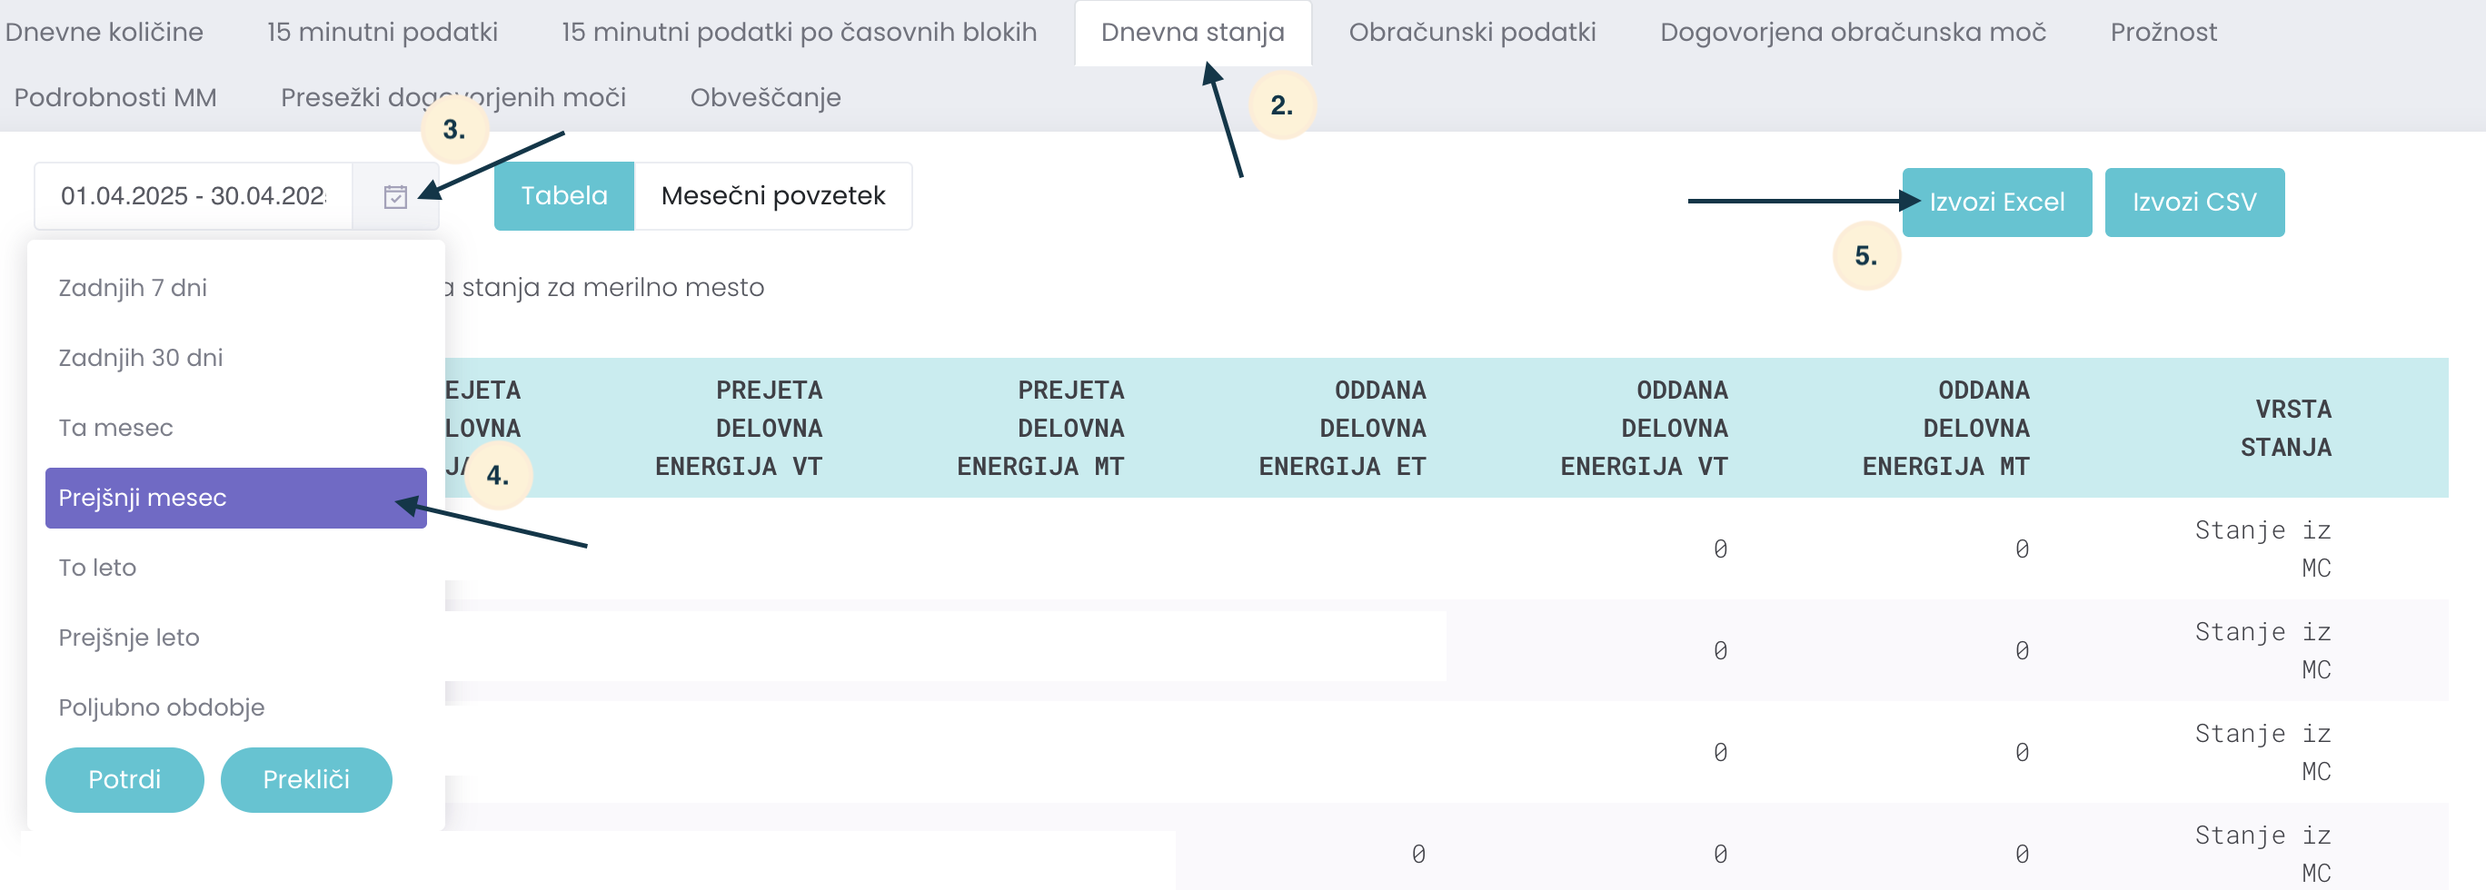
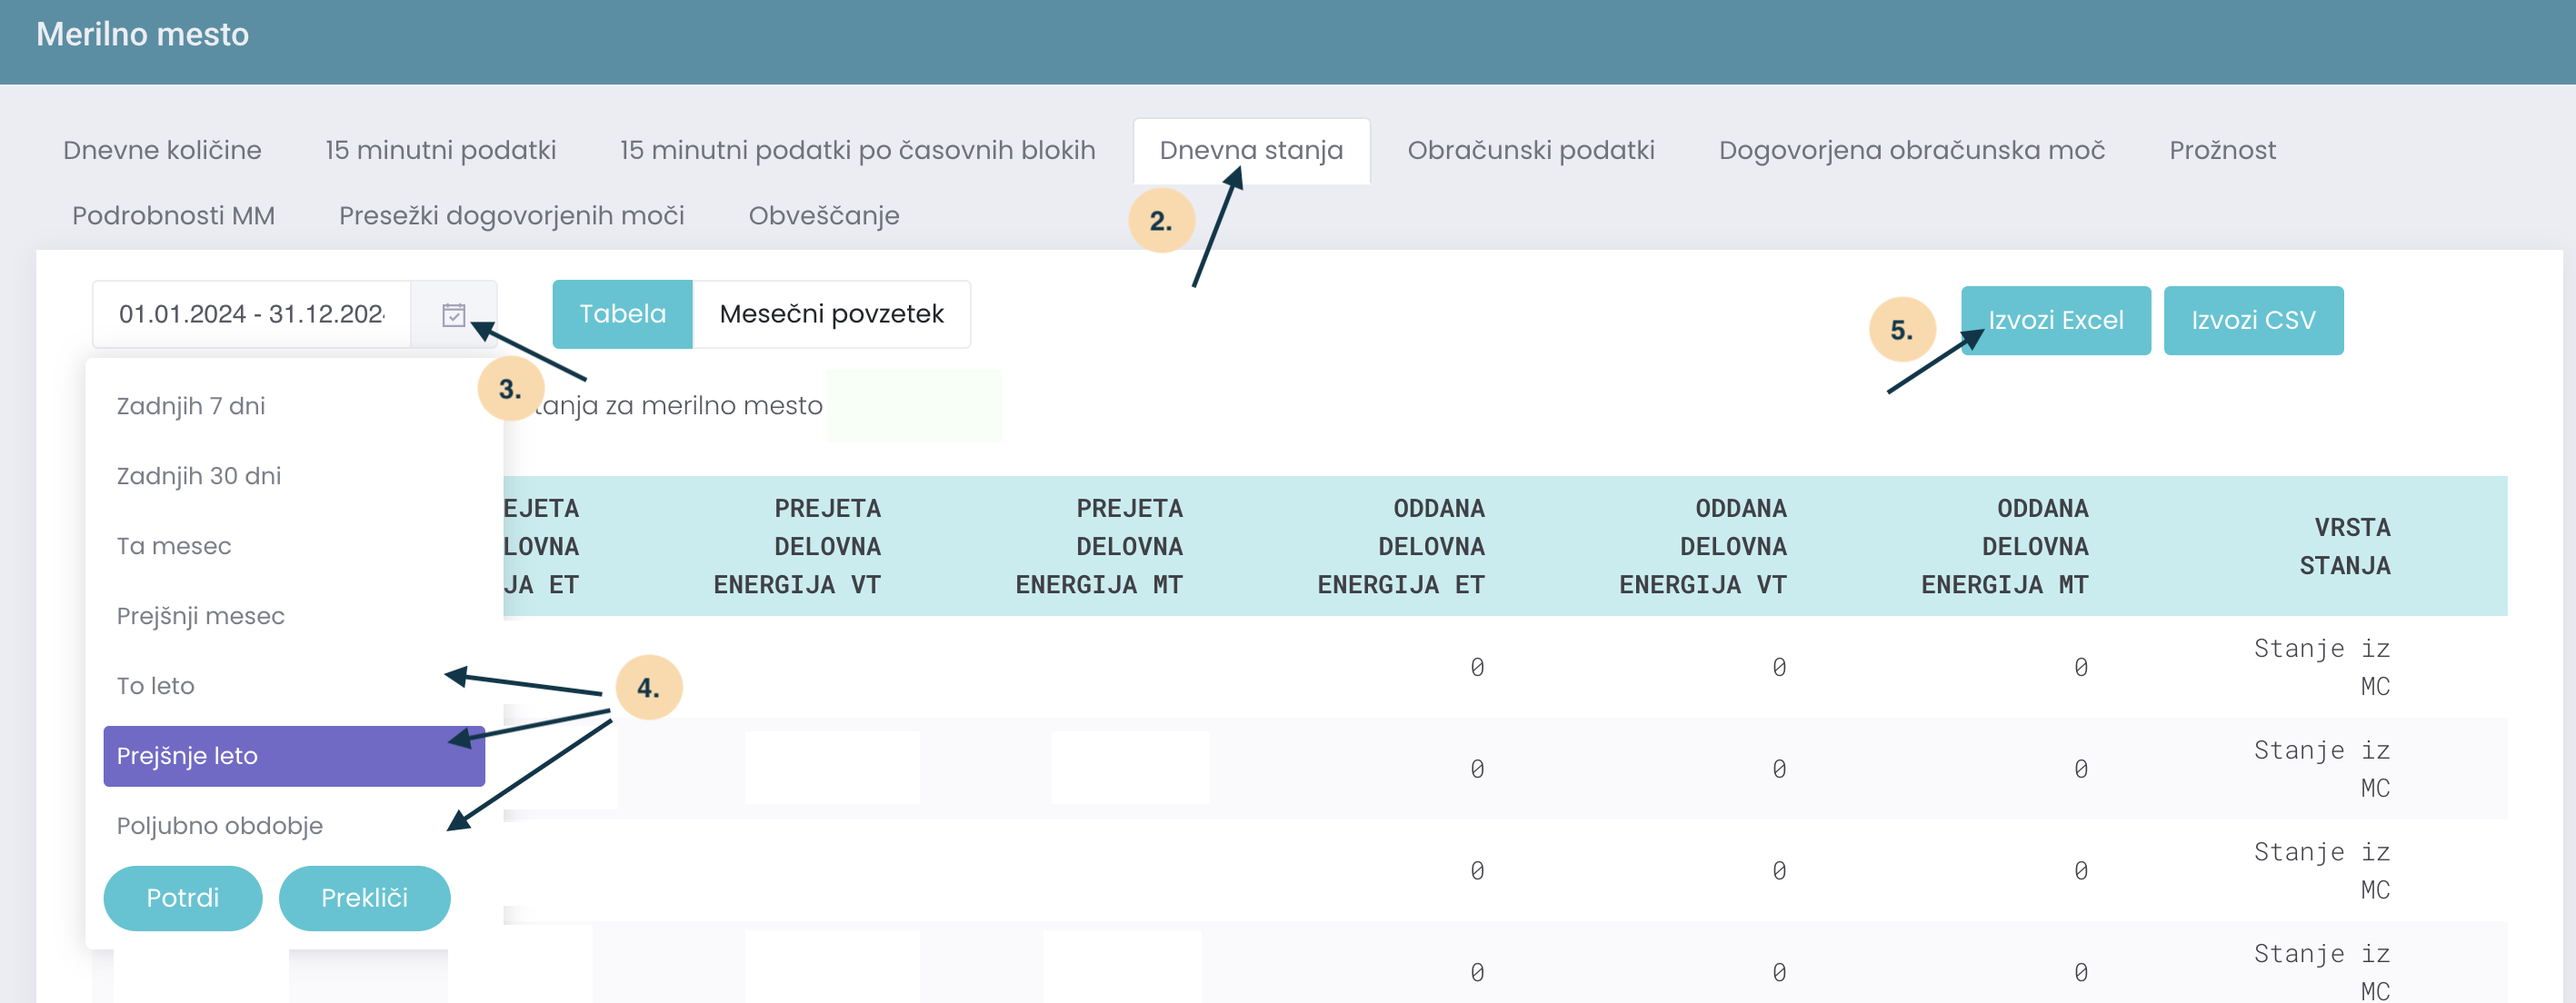
nalaganje 15-min podatkov za optimum, razlaga računa, prikaz komponent

diff --git a/frontend/src/components/forms/Upload15min.tsx b/frontend/src/components/forms/Upload15min.tsx
@@ -1,0 +1,152 @@
+import React, { useRef, useState } from 'react';
+import { Label, Button, FileInput, Accordion } from 'flowbite-react';
+import instructions1 from '../../assets/images/instructions/instructions1.png';
+import instructions4 from '../../assets/images/instructions/instructions4.png';
+
+import { getUserDocIds, uploadMonthlyFile } from 'src/index';
+import { auth } from 'src/firebase-config';
+
+export default function Upload15min () {
+  const [file, setFile] = useState<File | null>(null);
+  const keyId = auth.config.apiKey;
+  const userSessionid = 'firebase:authUser:' + keyId + ':[DEFAULT]';
+  const fileInputRef = useRef<HTMLInputElement>(null);
+
+  const handleFileChange = (e: React.ChangeEvent<HTMLInputElement>) => {
+    if (e.target.files && e.target.files.length > 0) {
+      setFile(e.target.files[0]);
+    }
+  };
+
+  const handleSubmit = async (e: React.FormEvent) => {
+    e.preventDefault();
+
+    if (!file) {
+      alert('Naloži datoteko.');
+      return;
+    }
+
+    const fromData = new FormData();
+    fromData.append('file', file);
+
+    try {
+      const uid = await getUid();
+      if (!uid) {
+        console.log('Uid notavalible');
+      }
+
+      const numOfDocsBefore = (await getUserDocIds(uid as string)).length;
+      fromData.append('uid', uid);
+
+      await uploadMonthlyFile(fromData);
+      const numOfDocsAfter = (await getUserDocIds(uid as string)).length;
+
+      if (numOfDocsAfter > numOfDocsBefore) {
+        alert('Račun uspešno naložen!');
+      } else {
+        alert('Ne gre');
+      }
+
+      setFile(null);
+      if (fileInputRef.current) {
+        fileInputRef.current.value = '';
+      }
+    } catch (error) {
+      console.log(error);
+    }
+  };
+
+  const getUid = async () => {
+    const sessionUser = sessionStorage.getItem(userSessionid);
+
+    if (sessionUser) {
+      try {
+        const user = JSON.parse(sessionUser);
+        if ('uid' in user) {
+          const id = user.uid;
+          return id;
+        }
+      } catch (error) {
+        //    console.log(error);
+      }
+    }
+  };
+
+  return (
+    <div className="bg-white dark:bg-darkgray p-6 relative w-full break-words">
+      <h5 className="card-title text-xl font-semibold mb-4">Nalaganje izpiska iz MojElektro.si za prekoračitve in optimum dogovorjene moči</h5>
+      <form onSubmit={handleSubmit}>
+        <div className="grid grid-cols-12 gap-6">
+          <div className="lg:col-span-6 col-span-12 flex flex-col gap-4">
+            <div>
+              <Label htmlFor="fileInput" value="Izberi datoteko" className="mb-1 block" />
+              <FileInput id="fileInput" ref={fileInputRef} accept=".xlsx,.csv" onChange={handleFileChange} required />
+              {file && <p className="text-sm text-green-600 mt-1">Izbrana datoteka: {file.name}</p>}
+            </div>
+          </div>
+          <div className="col-span-12 flex gap-3 mt-2">
+            <Button type="submit" color="primary">
+              Naloži csv ali excel
+            </Button>
+            <Button
+              type="reset"
+              color="gray"
+              onClick={() => {
+                setFile(null);
+              }}
+            >
+              Prekliči
+            </Button>
+          </div>
+        </div>
+      </form>
+
+      <div className="mt-8">
+        <Accordion collapseAll>
+          <Accordion.Panel>
+            <Accordion.Title>Kako prenesti 15-minutni izpis iz mojelektro.si?</Accordion.Title>
+            <Accordion.Content>
+              <ol className="list-decimal pl-5 text-sm space-y-2">
+                <li>
+                  Prijavi se v sistem{' '}
+                  <a
+                    href="https://mojelektro.si"
+                    target="_blank"
+                    rel="noopener noreferrer"
+                    className="text-blue-600 underline"
+                  >
+                    mojelektro.si
+                  </a>
+                  .
+                </li>
+                <li>
+                  V meniju klikni na <strong>Merilna mesta / merilne točke</strong>.
+                </li>
+                <li>
+                  Nato izberi zavihek <strong>15 minutni podatki</strong>.
+                </li>
+                <li>
+                  Izberi prikaz <strong>Moč</strong>, da se prikažejo podatki o odjemni in oddani delovni moči.
+                </li>
+                <li>
+                  Znotraj izbirnika obdobja izberi <strong>Prejšnje leto</strong> ali drugo obdobje, nato klikni <strong>Potrdi</strong>.
+                </li>
+                <li>
+                  Klikni gumb <strong>Izvozi Excel</strong> ali <strong>Izvozi CSV</strong>, da preneseš datoteko.
+                </li>
+                <li>
+                  Ko je datoteka prenesena, jo naloži v zgornji obrazec.
+                </li>
+              </ol>
+              <div className="mt-4 space-y-4">
+                <img src={instructions1} alt="Koraki 1–2" className="rounded-md border shadow-sm" />
+                <img src={instructions4} alt="Koraki 3–6" className="rounded-md border shadow-sm" />
+              </div>
+            </Accordion.Content>
+          </Accordion.Panel>
+        </Accordion>
+      </div>
+    </div>
+  );
+};
+

diff --git a/frontend/src/components/forms/UploadData.tsx b/frontend/src/components/forms/UploadData.tsx
@@ -1,13 +1,21 @@
 import { useState } from 'react';
 import UploadInvoice from './UploadInvoice';
 import UploadReceipt from './UploadReciept';
+import Upload15min from './Upload15min';
 
 export default function UploadData() {
+  const [selected, setSelected] = useState<'invoice' | 'receipt' | 'minutni'>('invoice');
 
-  const [selected, setSelected] = useState<'invoice' | 'receipt'>('invoice');
-//pregled prekoracitve, pridobi optimum dogovorjene moci, pojasnila zakaj so obrazci
   return (
-    <div className="w-full max-w-5xl mx-auto mt-10">
+    <div className="w-full max-w-5xl mx-auto mt-10 px-4">
+      <div className="text-center mb-8">
+        <h1 className="text-3xl font-bold mb-4">Nalaganje podatkov</h1>
+        <p className="text-gray-600 text-lg max-w-2xl mx-auto">
+          Naloži podatke o računih, dnevnih stanjih in 15-minutnih intervalih za boljši pregled in prikaz porabe.
+          Izberi ustrezno možnost glede na to, kaj želiš prikazati – mesečno porabo, podrobnosti računa ali analizo porabe glede na optimalne vrednosti.
+        </p>
+      </div>
+
       <div className="flex justify-center mb-8">
         <div className="flex bg-gray-100 rounded-full p-1 shadow-sm w-fit">
           <button
@@ -19,7 +27,7 @@ export default function UploadData() {
             onClick={() => setSelected('invoice')}
             type="button"
           >
-            Naloži dnevna stanja 
+            Naloži dnevna stanja
           </button>
           <button
             className={`px-6 py-2 rounded-full font-semibold transition-all duration-150 ${
@@ -32,11 +40,22 @@ export default function UploadData() {
           >
             Naloži račun
           </button>
+          <button
+            className={`px-6 py-2 rounded-full font-semibold transition-all duration-150 ${
+              selected === 'minutni'
+                ? 'bg-primary text-white shadow'
+                : 'text-gray-700 hover:bg-gray-200'
+            }`}
+            onClick={() => setSelected('minutni')}
+            type="button"
+          >
+            Naloži 15-minutni izpisek
+          </button>
         </div>
       </div>
-        {selected === 'invoice' && <UploadInvoice />}
-        {selected === 'receipt' && <UploadReceipt />}
+      {selected === 'invoice' && <UploadInvoice />}
+      {selected === 'receipt' && <UploadReceipt />}
+      {selected === 'minutni' && <Upload15min />}
     </div>
   );
 };
-

diff --git a/frontend/src/components/forms/UploadInvoice.tsx b/frontend/src/components/forms/UploadInvoice.tsx
@@ -74,7 +74,7 @@ const UploadInvoice: React.FC = () => {
 
   return (
     <div className="bg-white dark:bg-darkgray p-6 relative w-full break-words">
-      <h5 className="card-title text-xl font-semibold mb-4">Ročno nalaganje izpiska iz MojElektro.si</h5>
+      <h5 className="card-title text-xl font-semibold mb-4">Nalaganje izpiska iz MojElektro.si za mesečno porabo</h5>
       <form onSubmit={handleSubmit}>
         <div className="grid grid-cols-12 gap-6">
           <div className="lg:col-span-6 col-span-12 flex flex-col gap-4">
@@ -127,7 +127,7 @@ const UploadInvoice: React.FC = () => {
                   Iz zgornjega menija izberi <strong>Dnevna stanja</strong>.
                 </li>
                 <li>
-                  V izbirniku obdobja izberi <strong>Prejšnji mesec</strong> in klikni <strong>Potrdi</strong>.
+                  Znotraj izbirnika obdobja izberi <strong>Prejšnje leto</strong> ali drugo obdobje, nato klikni <strong>Potrdi</strong>.
                 </li>
                 <li>
                   Klikni <strong>Izvozi Excel</strong> ali <strong>Izvozi CSV</strong> za prenos datoteke.

diff --git a/frontend/src/views/simulation/NetworkFee.tsx b/frontend/src/views/simulation/NetworkFee.tsx
@@ -57,13 +57,13 @@ const NetworkFee = () => {
   return (
     <div className="mt-8 bg-white p-4 rounded-xl">
     <div className="p-6 space-y-6">
-      <h1 className="text-2xl font-bold">Obračunavanje omrežnine</h1>
-      <p className="text-gray-700">
+      <h1 className="text-3xl font-bold mb-4 text-center">Obračunavanje omrežnine</h1>
+      <p className="text-gray-600 text-lg max-w-2xl mx-auto text-center">
         Omrežnina je strošek, ki ga plačujemo za uporabo elektroenergetskega omrežja. Obračunavanje poteka po časovnih blokih (1–5), ki so razdeljeni glede na sezono in dan v tednu. Blok 1 pomeni
         najvišjo obremenjenost omrežja in posledično višjo tarifo, medtem ko blok 5 pomeni najnižjo tarifo.
       </p>
 
-      <p className="text-sm text-left text-gray-400">
+      <p className="text-sm text-left text-gray-400 text-center">
         Prikaz časovnih blokov glede na uro v dnevu (00:00–23:00) :
       </p>
 

diff --git a/frontend/src/components/dashboard/ReceiptExplanation.tsx b/frontend/src/components/dashboard/ReceiptExplanation.tsx
@@ -84,9 +84,10 @@ const InvoiceTable: React.FC = () => {
 
   return (
     <div className="rounded-xl shadow-md bg-white dark:bg-darkgray p-6 relative w-full break-words">
-      <h5 className="text-xl font-semibold mb-4">Račun na kratko</h5>
-      <p className="text-gray-600 mb-4">
+      <h5 className="text-3xl font-bold mb-4 text-center">Račun na kratko</h5>
+      <p className="text-gray-600 text-lg max-w-2xl mx-auto text-center">
         Hiter in jasen pregled tvojega računa. Izberi leto in mesec ter si oglej, kako je sestavljen tvoj strošek za elektriko.      </p>
+      <br />
       <div className="mb-4 flex gap-4 items-center flex-wrap">
         <div>
           <label className="block text-sm mb-1">Izberi leto:</label>

diff --git a/frontend/src/views/simulation/SimulatePower.tsx b/frontend/src/views/simulation/SimulatePower.tsx
@@ -64,10 +64,10 @@ useEffect(() => {
 
   return (
     <div className="p-4 space-y-4">
-      <h2 className="text-xl font-semibold">Izberi naprave</h2>
-      <p className="text-gray-700">
+      <h2 className="text-3xl font-bold mb-4 text-center">Izberi naprave</h2>
+      <p className="text-gray-600 text-lg max-w-2xl mx-auto text-center">
         Izberite naprave, katerih porabo želite simulirati. Na podlagi izbranih naprav in dogovorjene moči bo prikazan rezultat simulacije.
-        <p className="text-gray-500">
+        <p className="text-gray-400 text-lg max-w-2xl mx-auto text-center">
           Preizkusi različne kombinacije naprav in preveri, ali presegaš dogovorjeno moč.
         </p>
         <br />

diff --git a/frontend/src/views/forms/Form.tsx b/frontend/src/views/forms/Form.tsx
@@ -1,9 +1,9 @@
-import BasicForm from 'src/components/forms/BasicForm';
+import Upload15min from 'src/components/forms/Upload15min';
 
 const FormPage = () => {
   return (
     <div className="min-h-screen bg-gray-100 p-4 space-y-8">
-      <BasicForm />
+      <Upload15min />
       
     </div>
   );
